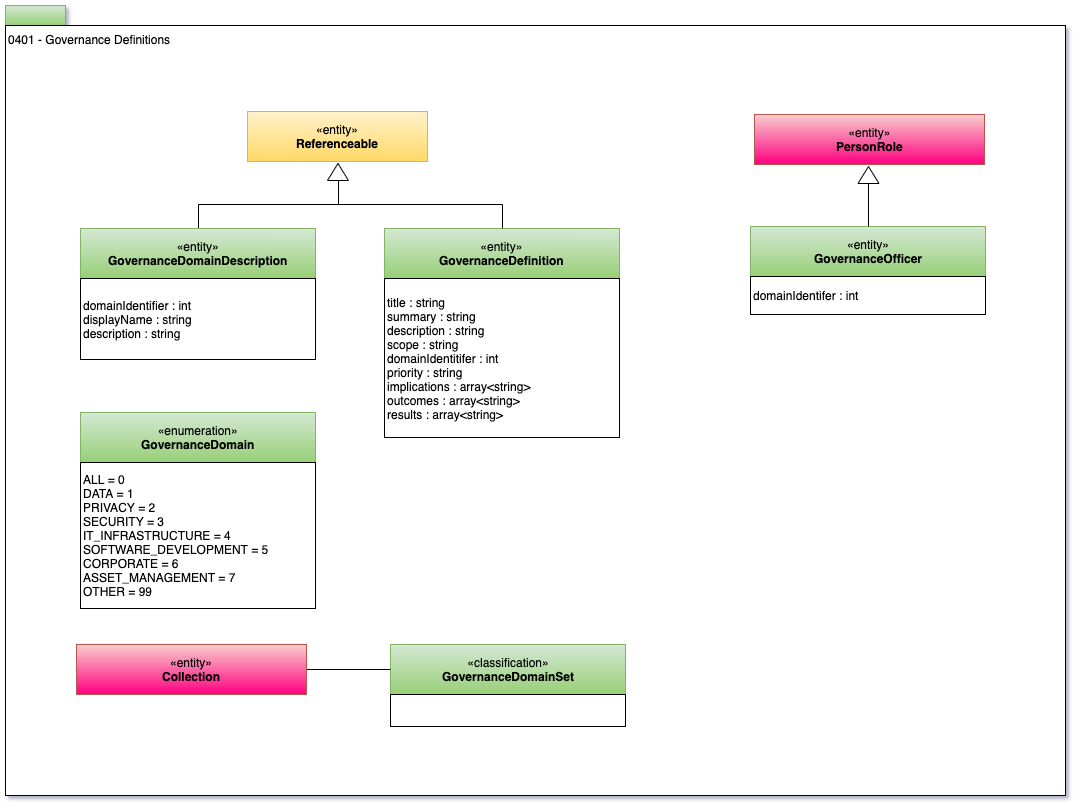
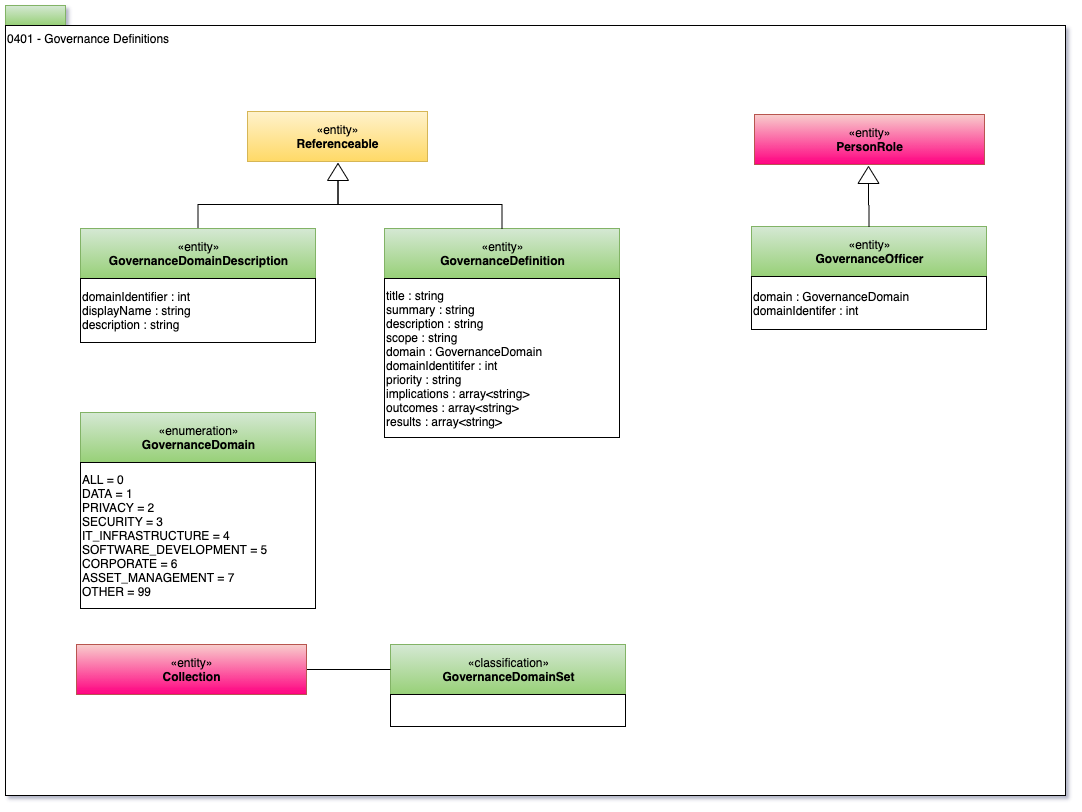
GovernanceDomainDescription inherits from Referenceable.

diff --git a/open-metadata-resources/open-metadata-archives/open-metadata-types/src/main/java/org/odpi/openmetadata/opentypes/OpenMetadataTypesArchive.java b/open-metadata-resources/open-metadata-archives/open-metadata-types/src/main/java/org/odpi/openmetadata/opentypes/OpenMetadataTypesArchive.java
@@ -1198,12 +1198,14 @@ public class OpenMetadataTypesArchive
     {
         final String guid            = "084cd115-5d0d-4f12-8093-697526a120ea";
         final String name            = "GovernanceDomainDescription";
-        final String description     = "A description of a governance domain along with an identifier for using in governance definitions.";
+        final String description     = "A description of a governance domain along with an identifier for use in governance definitions.";
         final String descriptionGUID = null;
+
+        final String superTypeName   = "Referenceable";
 
         EntityDef entityDef = archiveHelper.getDefaultEntityDef(guid,
                                                                 name,
-                                                                null,
+                                                                this.archiveBuilder.getEntityDef(superTypeName),
                                                                 description,
                                                                 descriptionGUID);
 
@@ -1216,7 +1218,7 @@ public class OpenMetadataTypesArchive
         final String attribute1Name            = "domainIdentifier";
         final String attribute1Description     = "Identifier used in governance definitions to show which governance domain they belong to.";
         final String attribute1DescriptionGUID = null;
-        final String attribute2Name            = "display name";
+        final String attribute2Name            = "displayName";
         final String attribute2Description     = "Name of the domain in common use.";
         final String attribute2DescriptionGUID = null;
         final String attribute3Name            = "description";
@@ -1247,10 +1249,11 @@ public class OpenMetadataTypesArchive
         final String name            = "GovernanceClassificationLevel";
         final String description     = "A value to represent a specific level in a governance classification definition.";
         final String descriptionGUID = null;
+        final String superTypeName   = "Referenceable";
 
         EntityDef entityDef = archiveHelper.getDefaultEntityDef(guid,
                                                                 name,
-                                                                null,
+                                                                this.archiveBuilder.getEntityDef(superTypeName),
                                                                 description,
                                                                 descriptionGUID);
 
